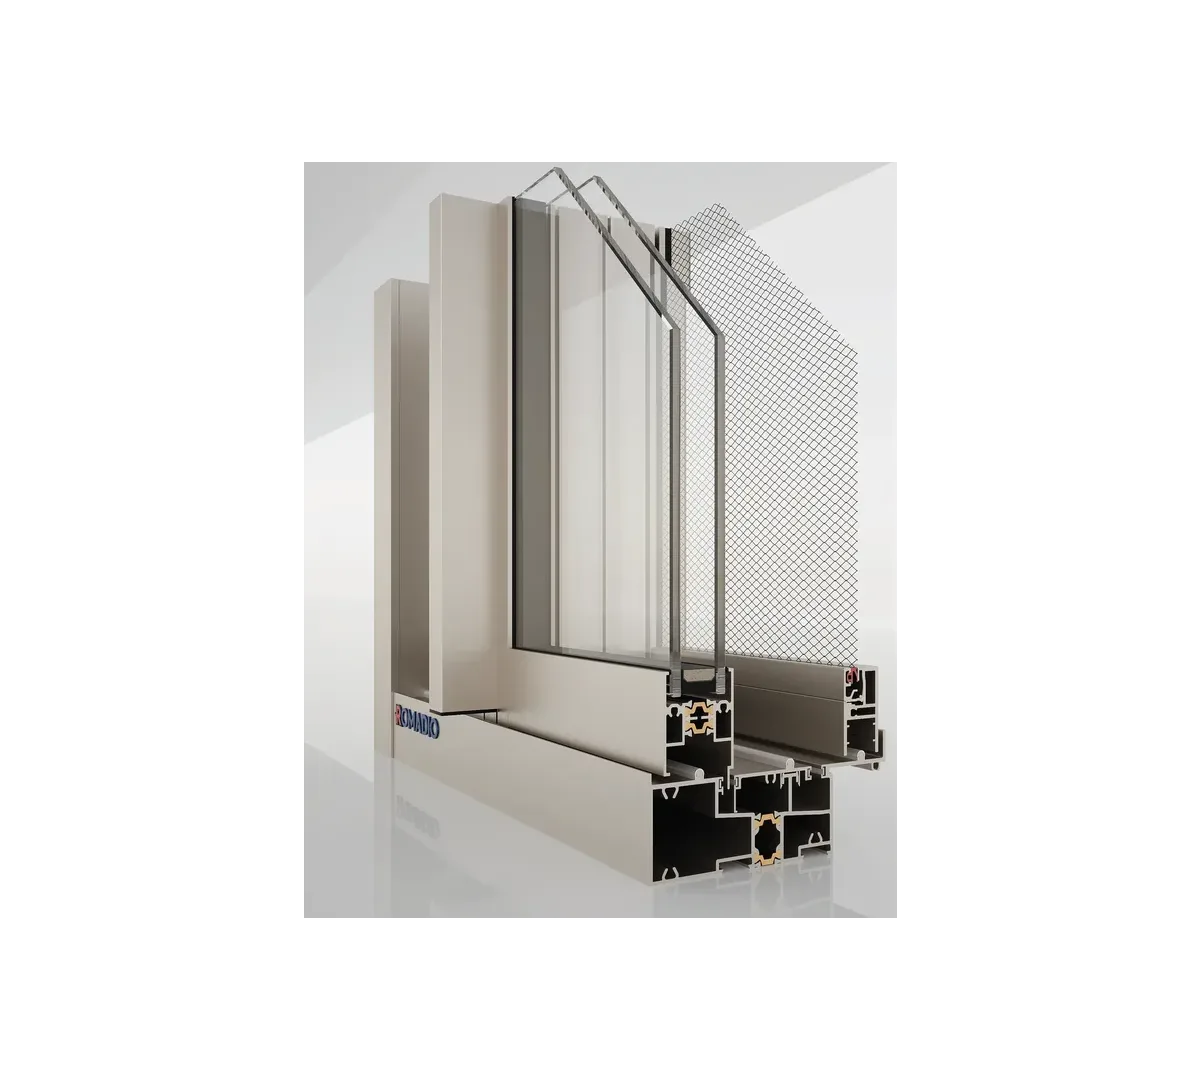
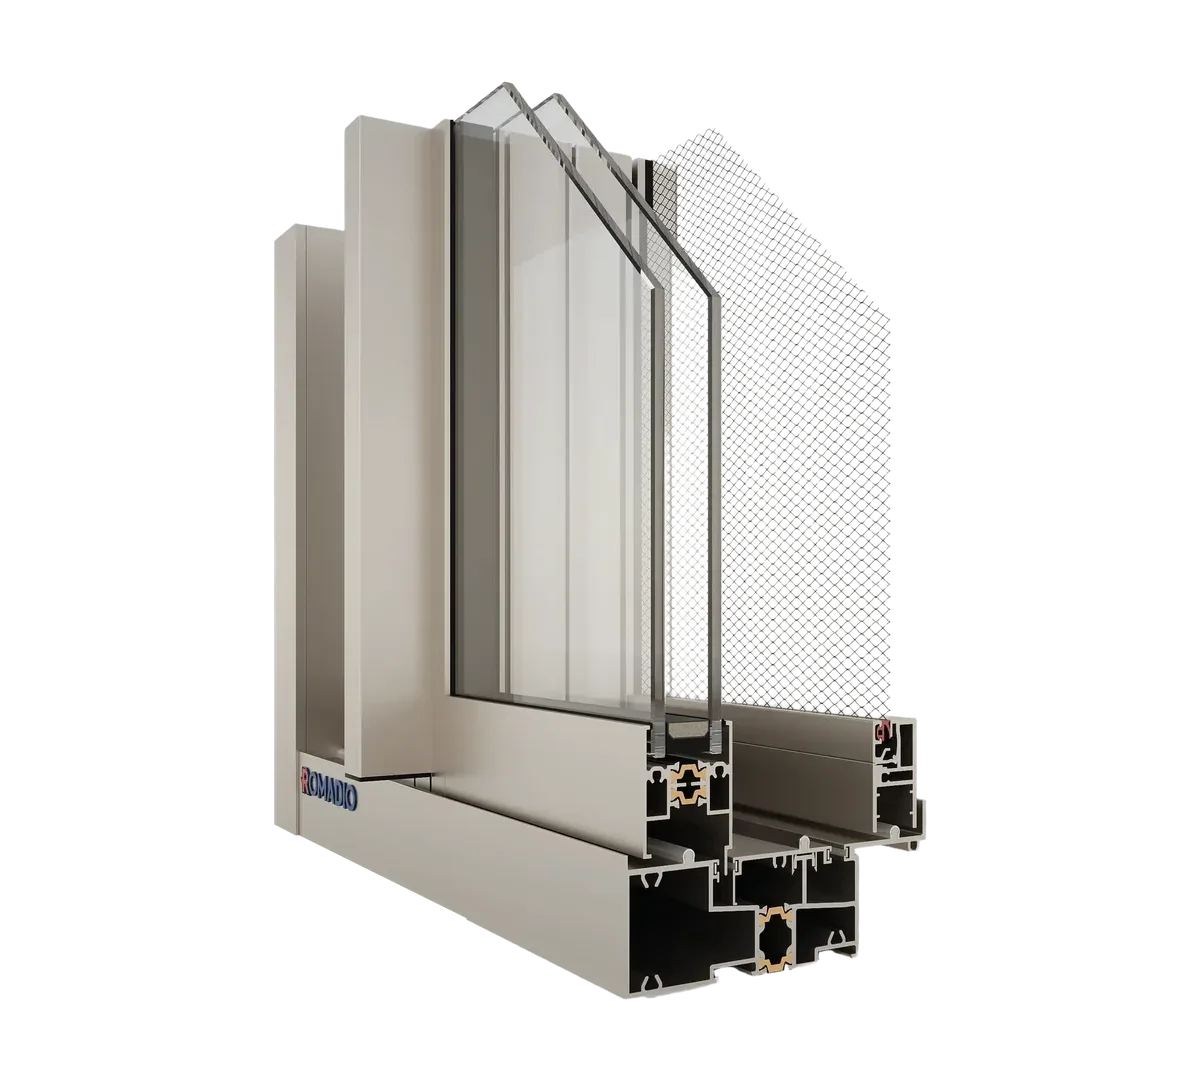
He cua: RW100IN va RW100SS dung ban tach nen cho dong bo voi the khac

Changed region(s): [[0.2158, 0.0611, 0.7708, 0.9472]]

diff --git a/src/lib/he-cua-du-lieu.ts b/src/lib/he-cua-du-lieu.ts
@@ -1205,8 +1205,9 @@ export const HE_CUA_DS: HeCua[] = [
   "ghiChu": "Kính áp dụng: 13–52 mm",
   "anh": {
    "c": [
-    "/images/he-cua/mau-goc/romadio-rw100in-fw40g-p1.webp",
-    "/images/he-cua/mau-goc/romadio-rw100in-fw40g-p2.webp"
+    "/images/he-cua/mau-goc/romadio-rw100in-fw40g-g1.webp",
+    "/images/he-cua/mau-goc/romadio-rw100in-fw40g-g2.webp",
+    "/images/he-cua/mau-goc/romadio-rw100in-fw40g-g3.webp"
    ],
    "d": [
     "/images/he-cua/ban-ve/romadio-rw100in-fw40g-1.webp"

diff --git a/docs/ban-giao-he-cua/BAN-GIAO.md b/docs/ban-giao-he-cua/BAN-GIAO.md
@@ -121,9 +121,9 @@ Mở `/he-cua`: 115 hệ (Romadio 47, Civro 35, Ponzio 33), lọc "Civro + Cửa
 
 ## Cập nhật 11/11/2026 (đợt thiết kế lại lần 2)
 
-- **Thứ tự chạy script dữ liệu** (từ gốc repo): gen3 → them-anh-civro → them-anh-ponzio → them-anh-3d → **them-anh-rw100in** → **bo-sung-tag** → chuan-hoa-anh (cuối; bỏ qua tệp -p).
+- **Thứ tự chạy script dữ liệu** (từ gốc repo): gen3 → them-anh-civro → them-anh-ponzio → them-anh-3d → **bo-sung-tag** → chuan-hoa-anh (cuối; bỏ qua tệp -p).
 - **Tag chức năng** (`cong-cu/bo-sung-tag.cjs`): thêm tag suy ra từ số liệu hãng (cn: U số cụ thể ≤ 1.4; an: RC2 trở lên không ghi "(phụ kiện)"; sm: ghi chú nêu động cơ). Kết quả chỉ thêm 1 hệ (USL): tag trong dữ liệu gốc đã đủ theo các quy tắc này. "Dễ tiếp cận" không suy ra được vì không có số liệu ngưỡng. 79/115 hệ vẫn không có tag chức năng vì hãng chưa công bố số liệu. Thẻ vì vậy hiện thêm nhãn kết cấu, độ dày kính và cấp chống đột nhập (hàm `chipThe`).
-- **Ảnh**: RW100IN + FW40G lấy từ romadio.com (`them-anh-rw100in.cjs`, ảnh studio, hậu tố -p). Còn 16 hệ chưa có ảnh 3D chính thức: Civro XD55, USL, USW, AMAZA UID16; Ponzio NT 75 TT HI (cửa đi), SL65 In linea, SL65 Nâng trượt, Apexfine; Romadio LID45/58/102/115/172/230/67IN (không có trên romadio.com hay Drive; LID67OU dùng chung ảnh LD67OU - LD16OU, anh Huy xác nhận).
+- **Ảnh**: RW100IN + FW40G và RW100SS dùng bản tách nền trong thư mục `2. Tach nền` (RW100IN MESH 1-3, RW100SS), để cùng kiểu với các thẻ khác; bản ảnh studio nền xám từ romadio.com đã bỏ vì lệch kiểu. Chạy riêng vài hệ: `CHI_MA="RW100SS,RW100IN + FW40G" node ...them-anh-3d.cjs <thư mục>` rồi `node ...chuan-hoa-anh.cjs rw100`. Còn 16 hệ chưa có ảnh 3D chính thức: Civro XD55, USL, USW, AMAZA UID16; Ponzio NT 75 TT HI (cửa đi), SL65 In linea, SL65 Nâng trượt, Apexfine; Romadio LID45/58/102/115/172/230/67IN (không có trên romadio.com hay Drive; LID67OU dùng chung ảnh LD67OU - LD16OU, anh Huy xác nhận).
 - **Menu "Hệ cửa"** (`src/lib/site.ts` + `Header.tsx`): 6 loại hệ có ảnh tròn và số hệ, trỏ tới `/he-cua?h=w|d|s|l|f|v`. Số hệ (`so`) ghi tay theo dữ liệu ngày 11/11/2026, cập nhật khi thêm hệ. Các trang `/he-cua/cua-truot-nang`... vẫn còn nhưng không còn trong menu.
 - **Hero** (`HeroBangChuyen.tsx`): băng chuyền 5 mẫu góc quay vòng cung, tự quay 4,2 giây, rê chuột vào mẫu bên cạnh thì mẫu đó ra trước; có chú thích FIG. và số 01/05; tắt tự quay khi người dùng chọn giảm chuyển động.
 - **Thẻ**: bốn góc "đo" hiện khi rê chuột (`.goc-do` trong globals.css). **Hộp chi tiết**: khung ảnh nền tối ánh đỏ, ảnh đổi góc hiện dần (`.anh-doi`).
